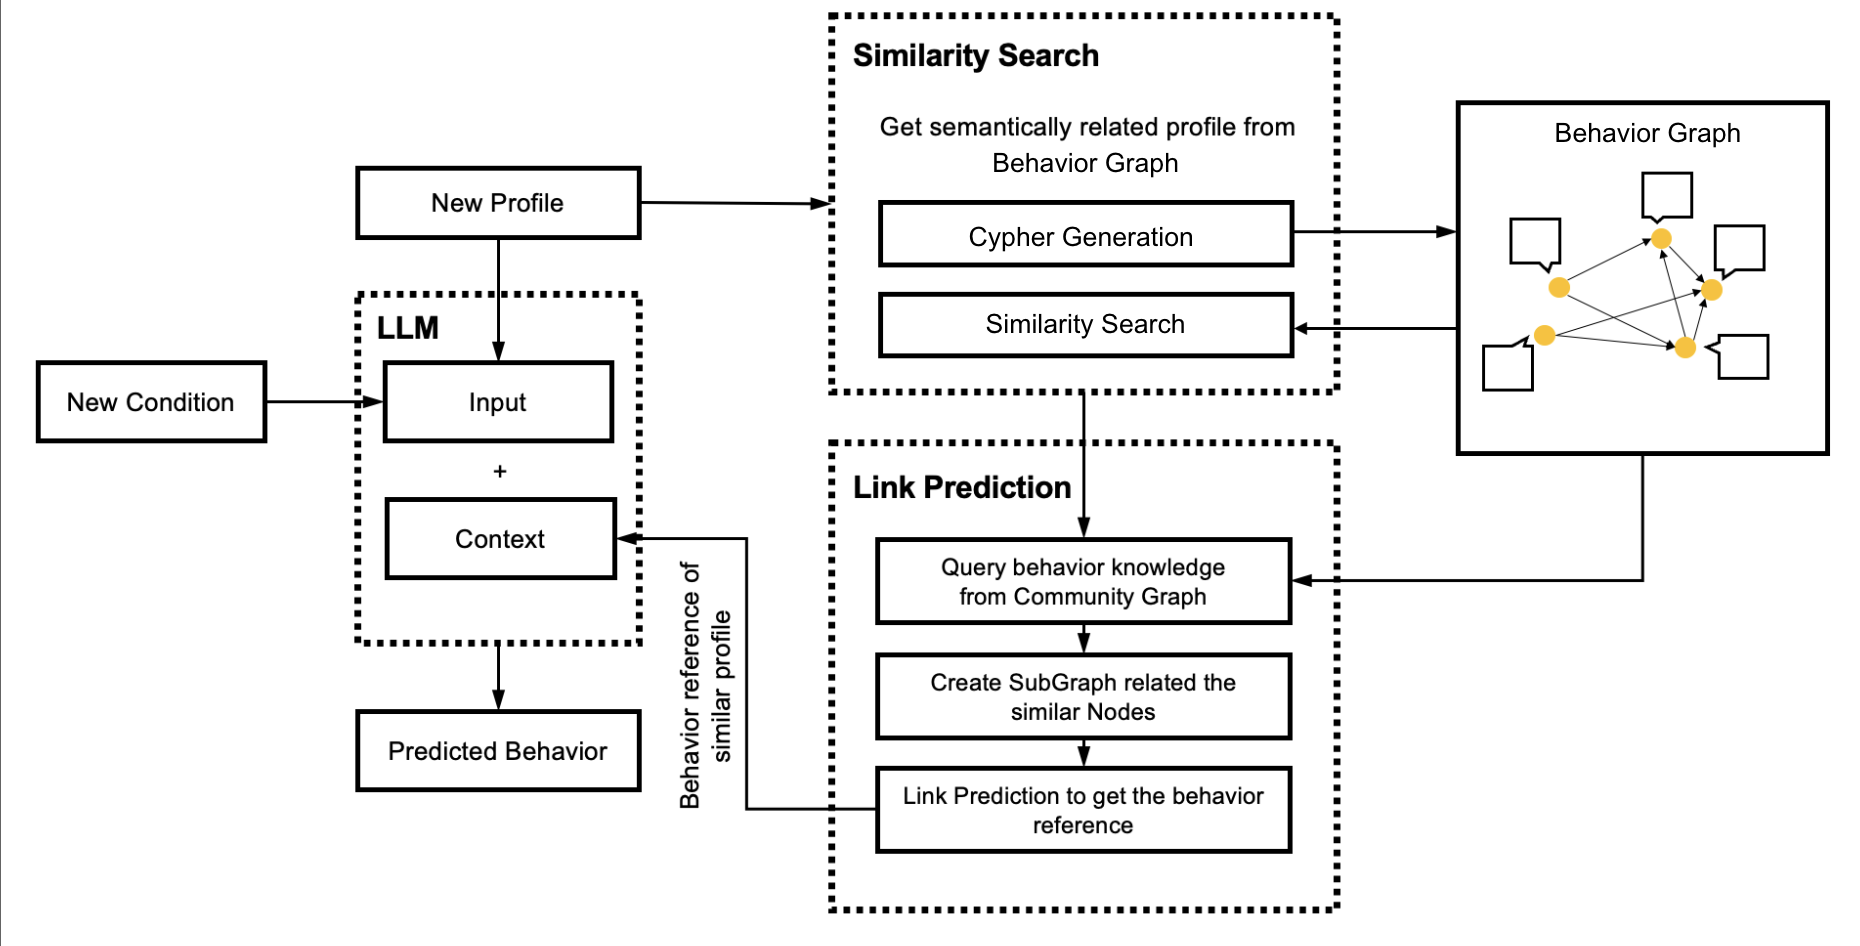
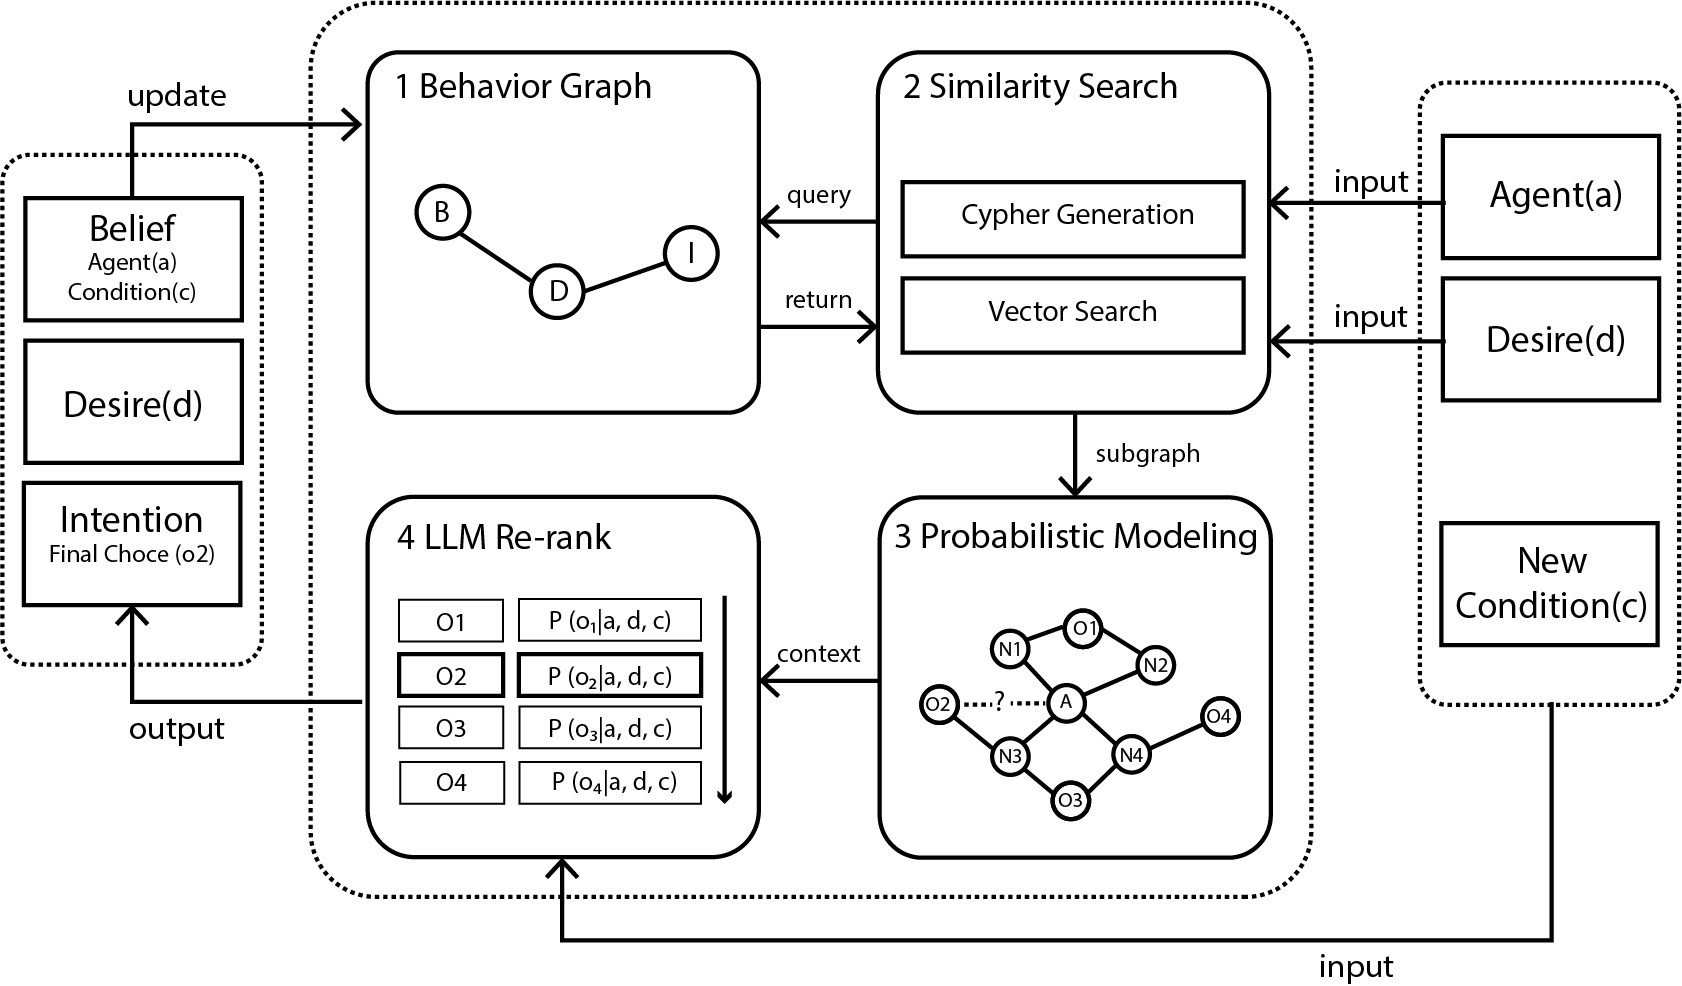
update readme

diff --git a/README.md b/README.md
@@ -1,8 +1,8 @@
 # Graph RAG as Human Choice Model:Building a Data-Driven Simulation Framework with LLM Agents
 
-The study of human behavior in urban environment is an important field in city sciences. However, it's usually not easy to collect behavior data especially in newly developed area. Recently, generative agents provide a way to simulate human behaviors without data using llms. But these generative methods still face the challenge of reliability, as they may not always produce consistent or realistic behavior simulations.
+Studying human behavior in urban environments is a crucial field within city sciences. However, collecting accurate behavioral data, particularly in newly developed areas, poses significant challenges. Recently, generative agents—powered by large language models (LLMs) have emerged as a promising approach to simulate human behaviors in these environments without requiring extensive real-world data. These models can offer valuable insights into human interactions and responses in urban contexts. Despite their potential, generative methods face challenges related to reliability, as they may not always produce consistent or realistic behavior simulations. 
 
-To address this, a hybrid approach is proposed, combining Graph Retrieval-Augmented Generation (Graph RAG) with LLMs. By integrating graph-based retrieval, the model aims to enhance the contextual understanding and accuracy of the generated behaviors with a small amount of data, making the simulations more reliable and reflective of real-world dynamics.
+To addresses the limitations of existing approaches in capturing realistic, context-sensitive simulations within limited data, this paper proposes a novel approach that enhances the contextual awareness and behavioral alignment of generative agents across diverse population groups. By leveraging the strengths of Graph Retrieval Augmented Generation (Graph RAG) and LLMs, the proposed approach aims to deliver more robust and realistic behavior simulations. The experimental results indicate that the proposed approach outperforms both popular machine learning methods and standalone LLM-based method within limited data. Additionally, it demonstrates the ability to adapt to changing conditions that are not present in the dataset. These improvements enhance the reliability of AI-driven simulations in urban science, making them more reflective of real-world dynamics.
 
 ![demo](assets/human-choice-model.gif)
 
@@ -119,6 +119,8 @@ The construction of behavior graph in this model follows the schema of BDI agent
 - **Desire**: What the agent want to do. ('Eat','Shop' or 'Recreation')
 - **Intension**: The final choice the agent made. (amenity choice, mobility choice)
 
+![](assets/data_schema.png)
+
 # Graph recommondation
 
 ![](assets/graph_recommondation.png)
@@ -126,9 +128,11 @@ The construction of behavior graph in this model follows the schema of BDI agent
 # Validation
 
 **mobility choice**
-![](assets/mobility_choice.png)
-**amenity choice**
-![](assets/amenity_choice.png)
+![](assets/pl_vs_gl.png)
+comparison of MAPE and KLD between pure LLM (PL) and proposed method (GL)
+
+![](assets/num_sample.png)
+Comparison of pure LLM method and the proposed methods based on different number of training samples
 
 # Acknowledgement
 
